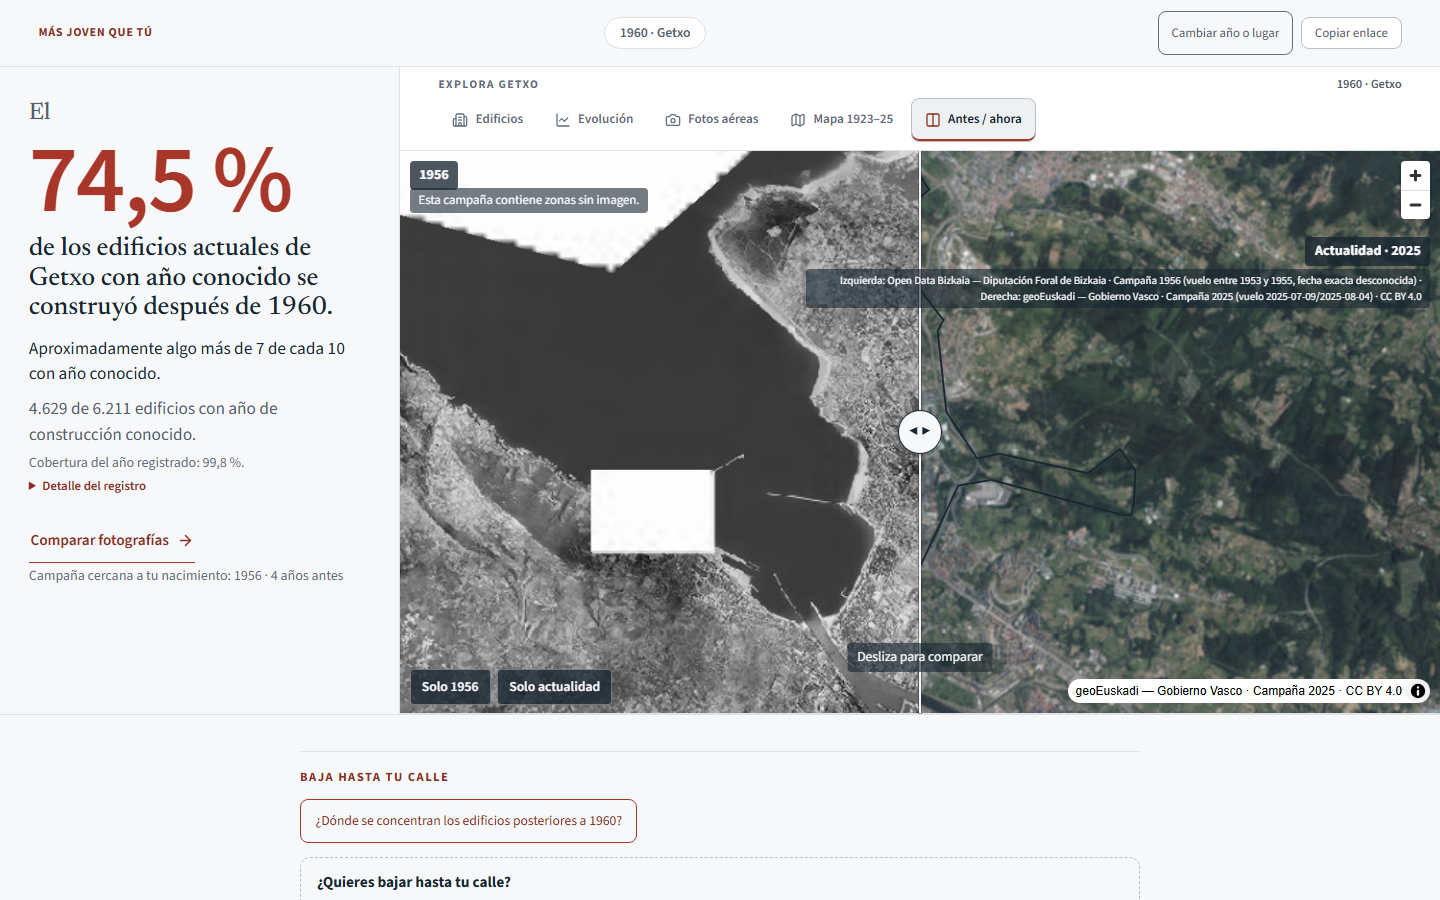
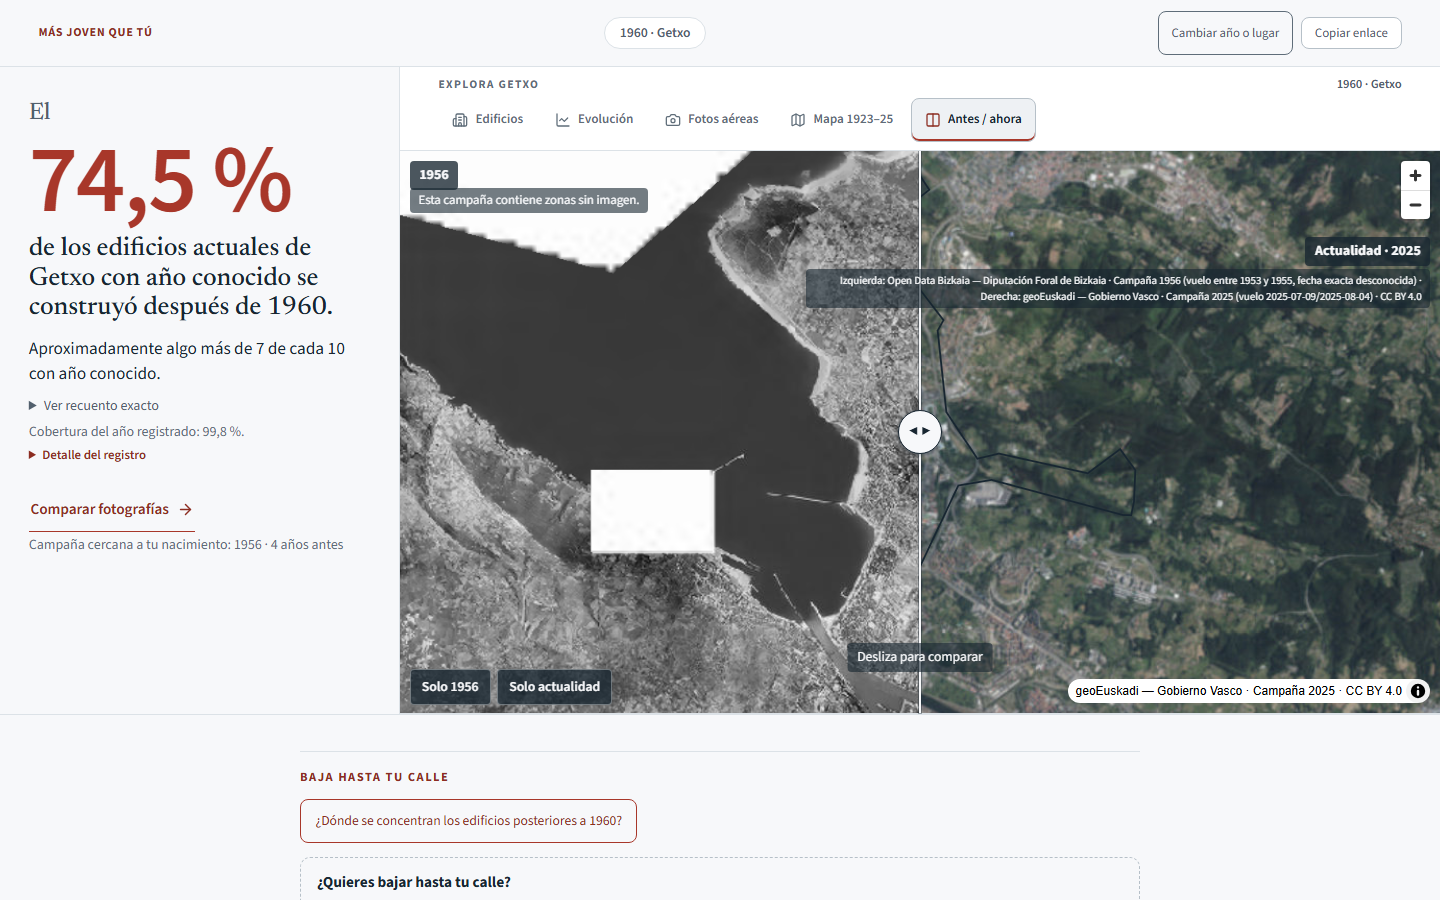
evidence: despliegue G12 en produccion verificado
gh-pages 5f29993 = def289c. prod_smoke real 16/16 tras propagacion de
Pages (index.html tardaba ~2 min en servir los chunks nuevos; el primer
smoke valido el build anterior). Sonda _prod_g12_probe confirma la
superficie G12 servida: intro antes del lienzo en movil, nivel CELDA,
leyenda con «a rayas» y aviso de pendientes.

Changed region(s): [[0.0, 0.4356, 0.25, 0.6533]]

diff --git a/docs/gates/G12_RELIABILITY.md b/docs/gates/G12_RELIABILITY.md
@@ -1,6 +1,8 @@
 # G12 — correcciones de la revisión de comprensión
 
-Base: `ffc9f88`. Cambios locales, sin commit, push ni despliegue desde esta tarea.
+Base: `ffc9f88`. Correcciones en `def289c`; publicado en `gh-pages`
+(`5f29993`, `prod_smoke` 16/16 post-propagación + sonda G12 real).
+Rollback: `git push origin 03a81b3:gh-pages --force`.
 
 ## Alcance
 
